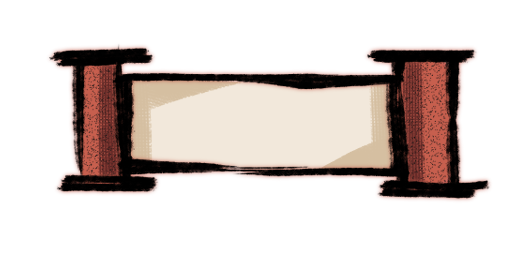
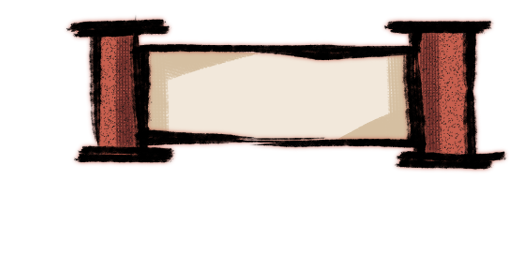
a

diff --git a/src/GuiControlButton.cpp b/src/GuiControlButton.cpp
@@ -36,62 +36,76 @@ GuiControlButton::~GuiControlButton()
 bool GuiControlButton::Start()
 {
 	texture = Engine::GetInstance().textures.get()->Load("Assets/UI/individualUIsprites/textName.png");
-	return false;
+    textureSelected = Engine::GetInstance().textures.get()->Load("Assets/UI/individualUIsprites/selectedButton.png");
+
+    return false;
 }
 bool GuiControlButton::Update(float dt)
 {
-	
-	if (state != GuiControlState::DISABLED)
-	{
-		// L16: TODO 3: Update the state of the GUiButton according to the mouse position
-		Vector2D mousePos = Engine::GetInstance().input->GetMousePosition();
+    if (state != GuiControlState::DISABLED)
+    {
+        // L16: TODO 3: Update the state of the GuiButton according to the mouse position
+        Vector2D mousePos = Engine::GetInstance().input->GetMousePosition();
 
-		//If the position of the mouse if inside the bounds of the button 
-		if (mousePos.getX() > bounds.x && mousePos.getX() < bounds.x + bounds.w && mousePos.getY() > bounds.y && mousePos.getY() < bounds.y + bounds.h) {
-		
-			state = GuiControlState::FOCUSED;
+        // If the position of the mouse is inside the bounds of the button 
+        if (mousePos.getX() > bounds.x && mousePos.getX() < bounds.x + bounds.w && mousePos.getY() > bounds.y && mousePos.getY() < bounds.y + bounds.h) {
+            state = GuiControlState::FOCUSED;
 
-			if (Engine::GetInstance().input->GetMouseButtonDown(SDL_BUTTON_LEFT) == KEY_REPEAT) {
-				state = GuiControlState::PRESSED;
-			}
-			
-			if (Engine::GetInstance().input->GetMouseButtonDown(SDL_BUTTON_LEFT) == KEY_UP) {
-				NotifyObserver();
-			}
-		}
-		else {
-			state = GuiControlState::NORMAL;
-		}
+            if (Engine::GetInstance().input->GetMouseButtonDown(SDL_BUTTON_LEFT) == KEY_REPEAT) {
+                state = GuiControlState::PRESSED;
+            }
 
-		//L16: TODO 4: Draw the button according the GuiControl State
-		switch (state)
-		{
-		case GuiControlState::DISABLED:
-			Engine::GetInstance().render->DrawTexturedRectangle(texture, bounds.x-200, bounds.y-300,600, 400, false);
-			break;
-		case GuiControlState::NORMAL:
-			Engine::GetInstance().render->DrawTexturedRectangle(texture, bounds.x-200,bounds.y-170,600,400, false);
+            if (Engine::GetInstance().input->GetMouseButtonDown(SDL_BUTTON_LEFT) == KEY_UP) {
+                NotifyObserver();
+            }
+        }
+        else {
+            state = GuiControlState::NORMAL;
+        }
 
-			if (isOptionA || isOptionB)
-			{
-				Engine::GetInstance().render->DrawTexturedRectangle(texture, bounds.x - 200, bounds.y - 170, 600, 400, false);
-			}
+        // L16: TODO 4: Draw the button according to the GuiControl State
+        switch (state)
+        {
+        case GuiControlState::DISABLED:
+            Engine::GetInstance().render->DrawTexturedRectangle(texture, bounds.x - 200, bounds.y - 300, 600, 400, false);
 
-			break;
-		case GuiControlState::FOCUSED:
-			Engine::GetInstance().render->DrawRectangle(bounds, 0, 0, 20, 255, true, false);
-			break;
-		case GuiControlState::PRESSED:
-			Engine::GetInstance().render->DrawRectangle(bounds, 0, 255, 0, 255, true, false);
-			isClicked = true;
-			break;
-		}
+            break;
+        case GuiControlState::NORMAL:
+            Engine::GetInstance().render->DrawTexturedRectangle(texture, bounds.x - 200, bounds.y - 170, 600, 400, false);
 
-		Engine::GetInstance().render->DrawText(text.c_str(), bounds.x, bounds.y, bounds.w, bounds.h);
+            if (isOptionA || isOptionB)
+            {
+                Engine::GetInstance().render->DrawTexturedRectangle(texture, bounds.x - 200, bounds.y - 170, 600, 400, false);
+            }
 
-	}
+            break;
+        case GuiControlState::FOCUSED:
+            Engine::GetInstance().render->DrawTexturedRectangle(textureSelected, bounds.x - 200, bounds.y - 170, 600, 400, false);
+            break;
+        case GuiControlState::PRESSED:
+            Engine::GetInstance().render->DrawTexturedRectangle(textureSelected, bounds.x - 200, bounds.y - 170, 600, 400, false);
+            isClicked = true;
+            break;
+        }
 
-	return false;
+        // Calculate the text size
+        int textW = 0, textH = 0;
+        TTF_SizeText(Engine::GetInstance().render->font, text.c_str(), &textW, &textH);
+
+        // Ensure the text width doesn't exceed button width
+        if (textW > bounds.w) {
+            textW = bounds.w;
+        }
+
+        // Calculate position to center text within the button
+        int textX = bounds.x + (bounds.w - textW) / 2;
+        int textY = bounds.y + (bounds.h - textH) / 2;
+
+        // Render the text
+        Engine::GetInstance().render->DrawText(text.c_str(), textX, textY, textW, textH);
+    }
+
+    return false;
 }
 void GuiControlButton::CleanUp()
 {

diff --git a/src/Scene.cpp b/src/Scene.cpp
@@ -247,6 +247,8 @@ void Scene::LoadTextures()
 }
 
 void Scene::SetState(GameState newState) {
+	Engine::GetInstance().guiManager->ClearControlsOfType(GuiControlType::BUTTON);
+
 	currentState = newState;
 }
 
@@ -339,6 +341,7 @@ void Scene::HandleInput()
 	{
 		if (currentState == GameState::MAIN_MENU)
 		{
+		
 			SetState(GameState::PLAYING);
 			startButton->CleanUp();
 			optionsButton->CleanUp();

diff --git a/src/GuiControlButton.h b/src/GuiControlButton.h
@@ -18,6 +18,7 @@ public:
 	void CleanUp();
 
 	SDL_Texture* texture;
+	SDL_Texture* textureSelected;
 	bool isClicked = false;
 	bool isOptionA = false;
 	bool isOptionB = false;
